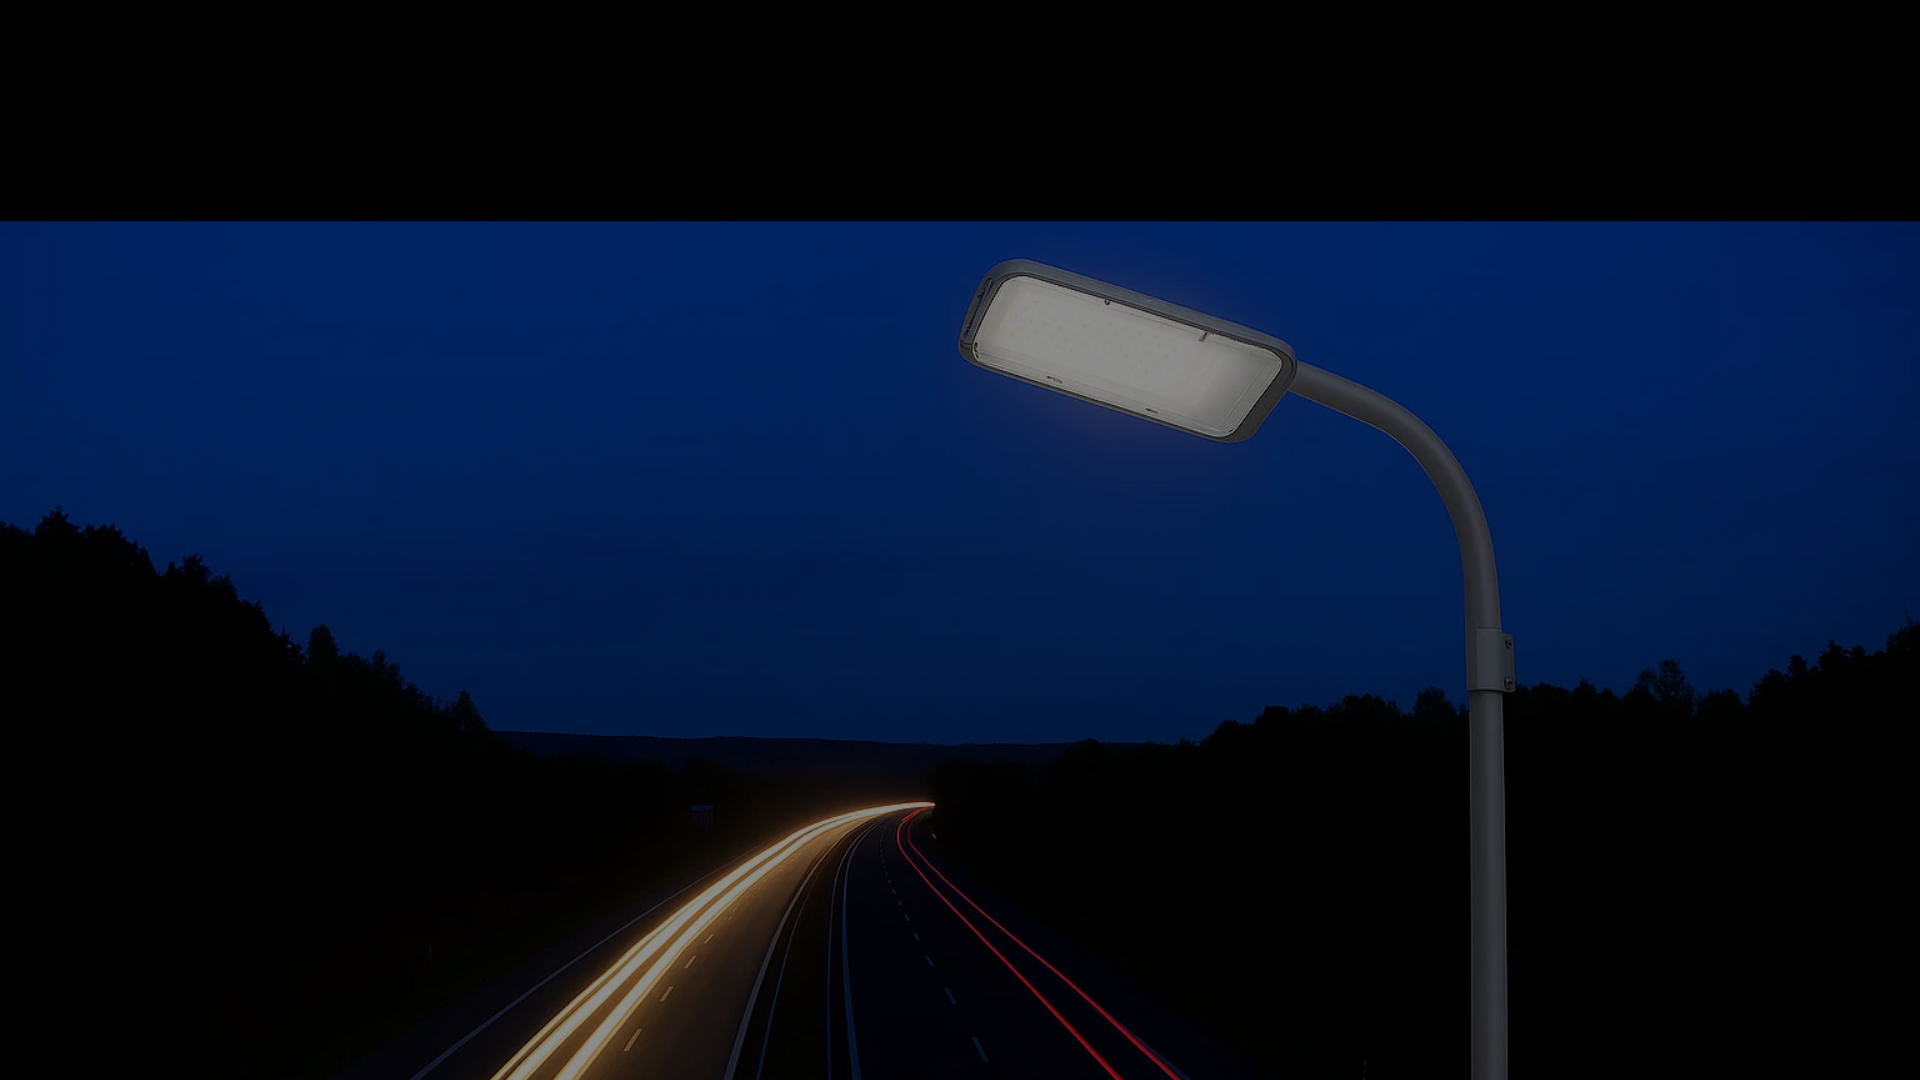
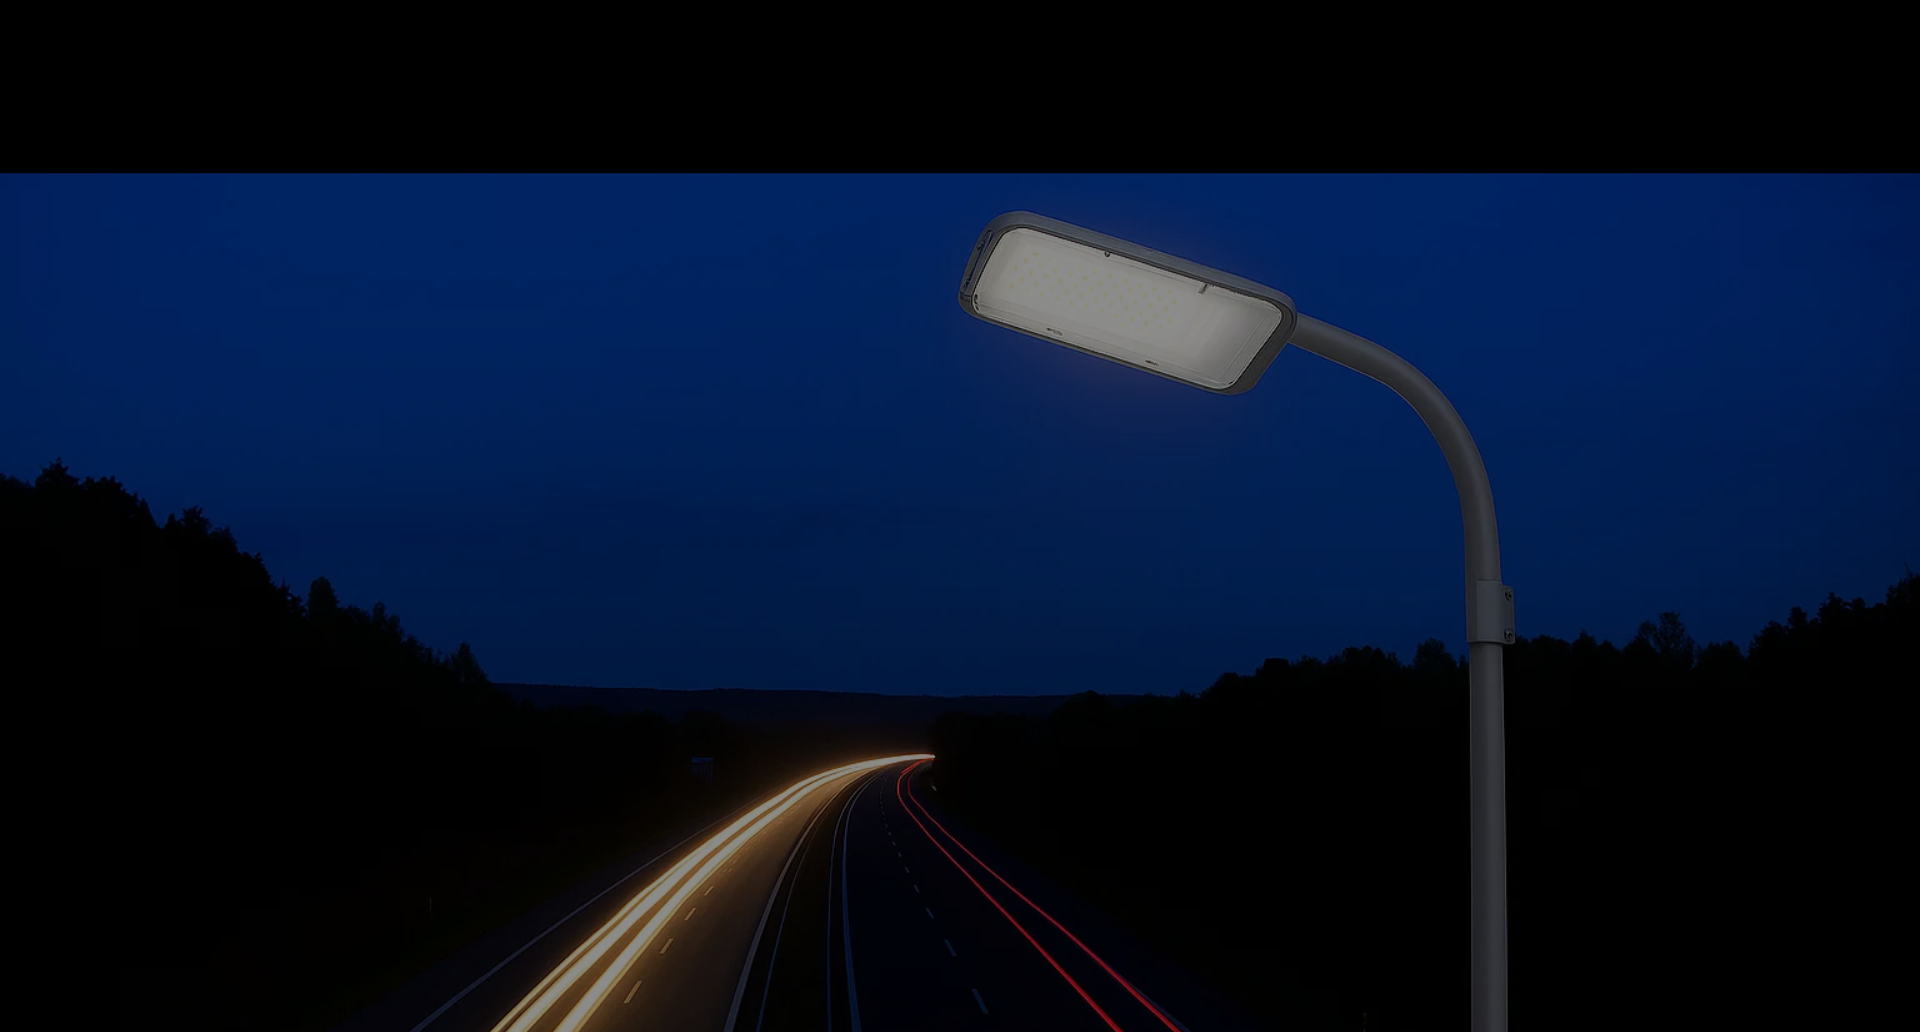
Fondos móvil y PC, carrusel productos, catálogo web e imágenes actualizadas.

diff --git a/css/stylescadaproducto.css b/css/stylescadaproducto.css
@@ -399,6 +399,9 @@ header:not(.site-header) {
 .otros-apliques {
   width: 100%;
   margin: 120px auto;
+  display: flex;
+  flex-direction: column;
+  align-items: center;
 }
 
 .otros-apliques h2 {
@@ -406,7 +409,12 @@ header:not(.site-header) {
   font-size: 30px;
   color: rgb(255, 15, 15);
   font-weight: 400;
-  margin-left: 40px;
+  margin: 0 0 8px;
+  padding: 0 16px;
+  width: 100%;
+  max-width: min(1350px, 100%);
+  text-align: center;
+  box-sizing: border-box;
   text-shadow: 1px 1px 4px rgba(0,0,0,0.25)
 }
 
@@ -489,27 +497,49 @@ header:not(.site-header) {
   flex: none;
 }
 .otrosSwiper {
-  width: fit-content;
+  width: 100%;
   max-width: min(1350px, 100%);
   margin: 0 auto;
-  padding: 0 48px 16px;
+  padding: 0 56px 16px;
   box-shadow: none;
-  overflow: visible;
+  overflow: hidden;
   position: relative;
   box-sizing: border-box;
 }
 
 .otrosSwiper .swiper-wrapper {
-  align-items: flex-start;
+  align-items: stretch;
 }
 
 .otrosSwiper .swiper-slide {
   display: flex;
   justify-content: center;
-  align-items: flex-start;
+  align-items: stretch;
+  width: 168px;
   height: auto !important;
-  align-self: flex-start;
   box-sizing: border-box;
+}
+
+@media (min-width: 768px) {
+  .otrosSwiper .swiper-slide {
+    width: 200px;
+  }
+}
+
+@media (min-width: 1024px) {
+  .otrosSwiper .swiper-slide {
+    width: 220px;
+  }
+}
+
+.otrosSwiper .swiper-slide.ver-mas {
+  width: 200px;
+}
+
+@media (min-width: 1024px) {
+  .otrosSwiper .swiper-slide.ver-mas {
+    width: 220px;
+  }
 }
 
 .otrosSwiper .swiper-button-next,
@@ -617,6 +647,7 @@ header:not(.site-header) {
 
 .contenido-ver-mas {
   width: 100%;
+  min-width: 160px;
   max-width: 220px;
   min-height: 0;
   flex: none;

diff --git a/js/scriptcadaproducto.js b/js/scriptcadaproducto.js
@@ -92,13 +92,14 @@ function initSwiperOtros() {
   if (total === 0) return;
 
   const swiper = new Swiper(el, {
-    slidesPerView: 2,
+    slidesPerView: "auto",
     slidesPerGroup: 1,
-    spaceBetween: 10,
+    spaceBetween: 12,
     speed: 500,
     loop: false,
     rewind: true,
     watchOverflow: true,
+    centerInsufficientSlides: true,
     grabCursor: true,
     observer: true,
     observeParents: true,
@@ -113,12 +114,6 @@ function initSwiperOtros() {
     navigation: {
       nextEl: el.querySelector(".swiper-button-next"),
       prevEl: el.querySelector(".swiper-button-prev"),
-    },
-    breakpoints: {
-      480: { slidesPerView: 3, spaceBetween: 10 },
-      768: { slidesPerView: 4, spaceBetween: 12 },
-      1024: { slidesPerView: 5, spaceBetween: 12 },
-      1280: { slidesPerView: 6, spaceBetween: 14 },
     },
     on: {
       init: syncVerMasHeights,
